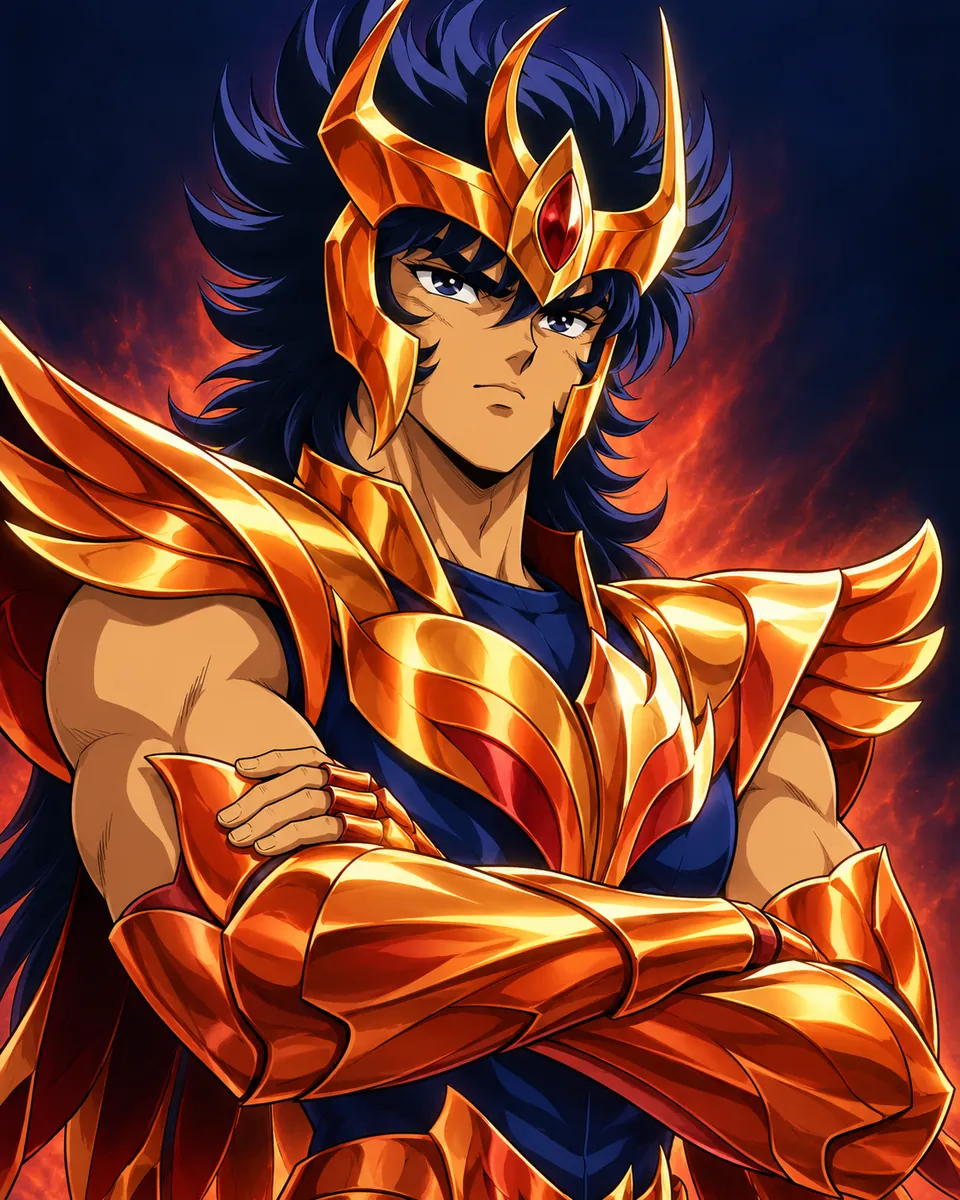
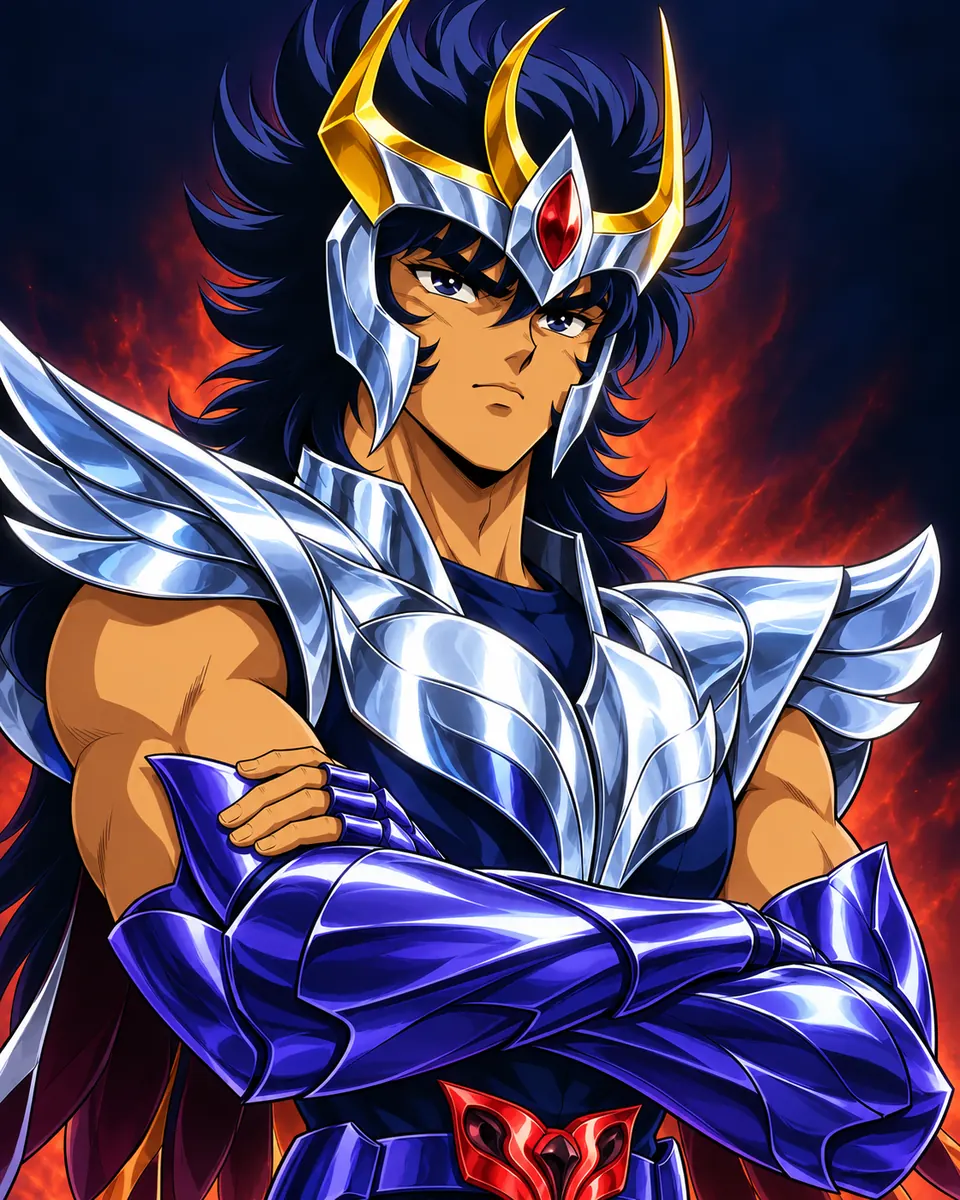
Correct Phoenix Ikki armor colors against official New Bronze Cloth reference
Replace the gold armor with silver chest and shoulder plates, blue-violet gauntlets and a red belt buckle. Preserve the portrait pose and finish, record the actual edit prompt and reference, and retain all 200 existing catalogue images.

Validation: 7 asset checks and production build passed.

diff --git a/docs/IMAGE_PROGRESS.md b/docs/IMAGE_PROGRESS.md
@@ -32,3 +32,7 @@ A busca externa já recuperou e comparou dezenas de candidatos. Muitos mostravam
 3. Registrar o prompt real e a autoria; para arquivos externos, registrar a página da fonte, autor, licença, atribuição e alterações.
 4. Rodar `npm run assets:sync`, `npm run assets:report`, os testes e o build antes de publicar.
 5. Atualizar as contagens deste arquivo, do README e do guia de integração.
+
+## Correção do Ikki de Fênix
+
+A pedido do usuário, substituída a armadura inteiramente dourada pela paleta da Nova Armadura de Bronze: peitoral e ombreiras prateados, braçadeiras azul-violeta, fivela vermelha e dourado restrito à crista do capacete. Referência oficial: https://tamashiiweb.com/item/13394/?wovn=en. Pose e acabamento da ilustração preservados.
